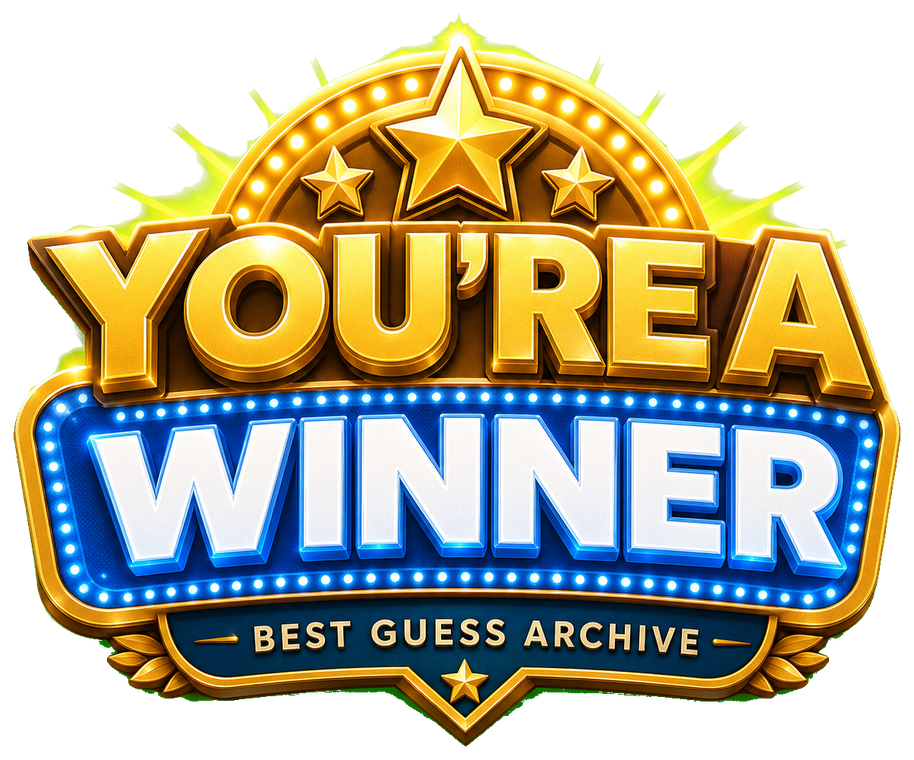
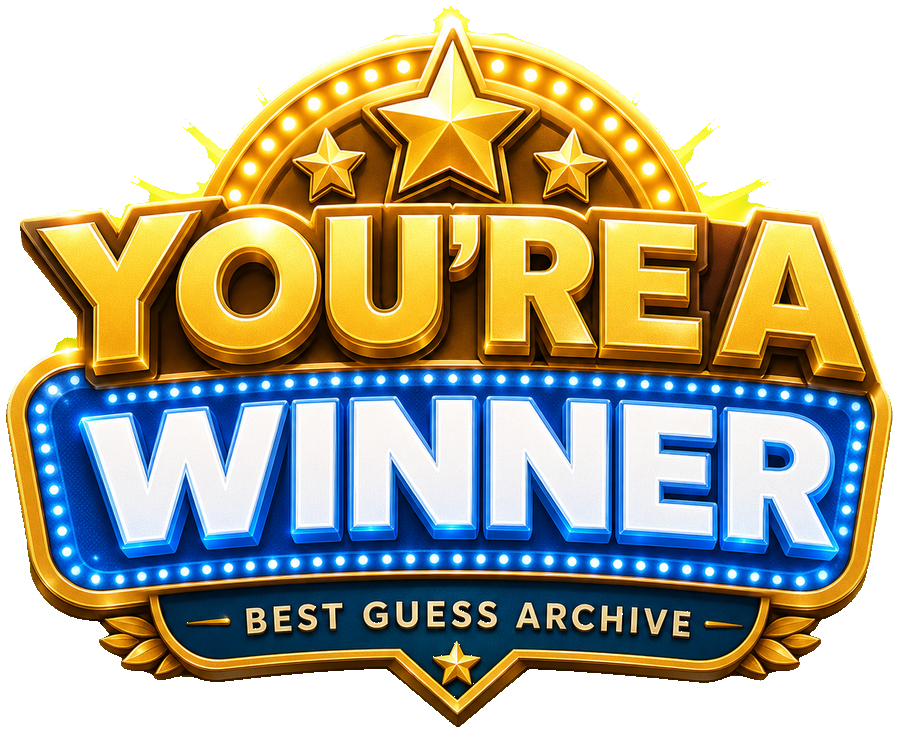
Center result answer pill

diff --git a/index.html b/index.html
@@ -161,11 +161,6 @@
     background: linear-gradient(180deg, rgba(14,27,52,0.95), rgba(7,15,32,0.96));
     box-shadow: 0 8px 18px rgba(0,0,0,0.28), inset 0 1px 0 rgba(255,255,255,0.08);
   }
-  .bgl-player-pill {
-    border-radius: 999px;
-    background: rgba(22,30,51,0.72);
-    box-shadow: inset 0 1px 0 rgba(255,255,255,0.08);
-  }
   .bgl-result-medallion {
     position: relative;
     width: min(16rem, 54vw);
@@ -307,6 +302,19 @@
     font-size: clamp(0.9rem, 3.7vw, 1.05rem);
     box-shadow: inset 0 1px 0 rgba(255,255,255,0.8), 0 10px 22px rgba(0,0,0,0.2);
   }
+  .bgl-answer-icon {
+    display: inline-grid;
+    width: 1.45rem;
+    height: 1.45rem;
+    flex: 0 0 auto;
+    place-items: center;
+    border-radius: 999px;
+    color: #fff;
+    font-size: 1rem !important;
+    line-height: 1 !important;
+  }
+  .bgl-answer-icon.is-right { background: #32c977; }
+  .bgl-answer-icon.is-wrong { background: #f24470; }
   .result-gold .bgl-answer-pill,
   .result-bronze .bgl-answer-pill {
     background: linear-gradient(90deg, #d87445, #f3ad77);
@@ -323,12 +331,12 @@
   .bgl-payout-pill {
     display: inline-flex;
     justify-content: center;
-    min-width: 9rem;
-    border-radius: 1.8rem;
-    padding: 0.85rem 2.25rem;
+    min-width: 7.5rem;
+    border-radius: 1.55rem;
+    padding: 0.62rem 1.8rem;
     background: rgba(236,244,250,0.94);
     color: #4b5f70;
-    font-size: clamp(2rem, 8.5vw, 3.25rem);
+    font-size: clamp(1.75rem, 7vw, 2.75rem);
     font-weight: 800;
     line-height: 1;
     box-shadow: inset 0 1px 0 rgba(255,255,255,0.8), 0 16px 28px rgba(0,0,0,0.22);
@@ -881,14 +889,10 @@ document.addEventListener('focusout', function(e) {
 
 <!-- Result screen — mirrors the real mobile end-screen, with archive details below. -->
 <div class="hidden bgl-result-screen fade-in" id="game-state-result">
-  <div class="bgl-result-topbar flex items-center justify-between px-5 pt-5">
+  <div class="bgl-result-topbar flex items-center px-5 pt-5">
     <button class="bgl-menu-button flex items-center justify-center text-white" onclick="app.exitGame()" aria-label="Return home">
       <span class="material-symbols-outlined" style="font-size:24px;line-height:1">menu</span>
     </button>
-    <div class="bgl-player-pill flex items-center gap-2 px-5 py-2.5 text-xl font-bold text-white">
-      <span class="font-mono tabular-nums" id="result-player-count">0</span>
-      <span class="material-symbols-outlined" style="font-size:25px;line-height:1">group</span>
-    </div>
   </div>
   <div class="bgl-result-content mx-auto flex flex-col items-center px-6 pb-7 text-center">
     <div class="bgl-result-medallion" id="result-medallion">
@@ -899,13 +903,13 @@ document.addEventListener('focusout', function(e) {
     </div>
     <div class="mt-auto flex w-full flex-col items-center pb-5 pt-8">
       <div class="bgl-answer-pill">
-        <span class="material-symbols-outlined rounded-full bg-slate-500/80 p-0.5 text-sm text-white" id="result-answer-icon">check</span>
+        <span class="material-symbols-outlined bgl-answer-icon is-right" id="result-answer-icon">check</span>
         <span class="truncate text-lg font-bold uppercase tracking-wide" id="result-answer">ANSWER</span>
       </div>
       <h2 class="mt-6 font-display font-bold uppercase tracking-wide text-white" id="result-title"></h2>
       <p class="mt-3 max-w-xl text-white" id="result-message"></p>
       <div class="bgl-correct-answer" id="result-correct-answer"></div>
-      <div class="bgl-payout-pill mt-8" id="result-payout">$0.00</div>
+      <div class="bgl-payout-pill mt-10" id="result-payout">$0.00</div>
       <button class="bgl-continue-button mt-10 text-xl font-medium text-white" onclick="app.startRandomGame()">Continue</button>
       <div class="bgl-scroll-cue mt-4">Scroll for archive stats</div>
     </div>
@@ -2650,15 +2654,11 @@ class App {
     const g = this.currentGame;
     const mood = won === true ? (medal || 'v1win') : isClose ? 'close' : 'wrong';
     resultEl.className = `bgl-result-screen fade-in result-${mood}`;
-    const totalGuessesForRound = g.clues.reduce((sum, c) =>
-      sum + (parseInt(String(c.guesses || '0').replace(/[^0-9]/g, ''), 10) || 0), 0
-    );
-    document.getElementById('result-player-count').innerText = totalGuessesForRound.toLocaleString();
     const guessedAnswer = this.lastGuess && this.lastGuess.trim() ? this.lastGuess.trim() : '(none)';
     document.getElementById('result-answer').innerText = won === false ? guessedAnswer : g.secretItem;
     const answerIcon = document.getElementById('result-answer-icon');
     answerIcon.innerText = won === false ? 'close' : 'check';
-    answerIcon.className = `material-symbols-outlined rounded-full p-0.5 text-sm text-white ${won === false ? 'bg-red-500/80' : 'bg-slate-500/80'}`;
+    answerIcon.className = `material-symbols-outlined bgl-answer-icon ${won === false ? 'is-wrong' : 'is-right'}`;
 
     const iconEl = document.getElementById('result-icon');
     const medallionEl = document.getElementById('result-medallion');

diff --git a/AI_HANDOFF.md b/AI_HANDOFF.md
@@ -8,7 +8,7 @@ Last updated: 2026-04-29
 
 ## Latest Known Implementation Commit
 
-- Current commit - Fix wrong-answer result screen
+- Current commit - Center result answer pill
 - `bc0a690` - Bonus indicator opens highlighted details
 - `e47f7e4` - Reformat April 27 transcript to canonical Results layout
 - `17fcff7` - Update Apr 27, 2026: screen-verified clues, winner names, wrong guesses, transcript
@@ -62,6 +62,7 @@ Last updated: 2026-04-29
 - **V1 simulated win screen 2026-04-29**: Classic/pre-medal wins use `assets/result/emblem-v1-winner.png`, a wide generated "You're a Winner" marquee with orange-to-purple end-screen background. V2 wins continue to use medal-specific result art.
 - **Result layout polish 2026-04-29**: Simulated end screens use `dvh`, smaller responsive emblem/text sizing, a scroll cue for archive stats, and payout formatting with exactly two cents.
 - **Wrong-answer result screen 2026-04-29**: Misses intentionally use a blue stage background, CSS `GOOD TRY!` sign, red-X guessed-answer pill, separate Correct Answer block, and no payout pill. Do not reuse silver/medal art for this state.
+- **Result answer/result art cleanup 2026-04-29**: Result screens no longer show the player-count pill. The guessed/answer pill uses explicit green-check/red-X icon classes, payout pills are smaller with more spacing, and generated result PNGs were rematted to remove faint rectangular background boxes.
 
 ## Daily Update Workflow
 
